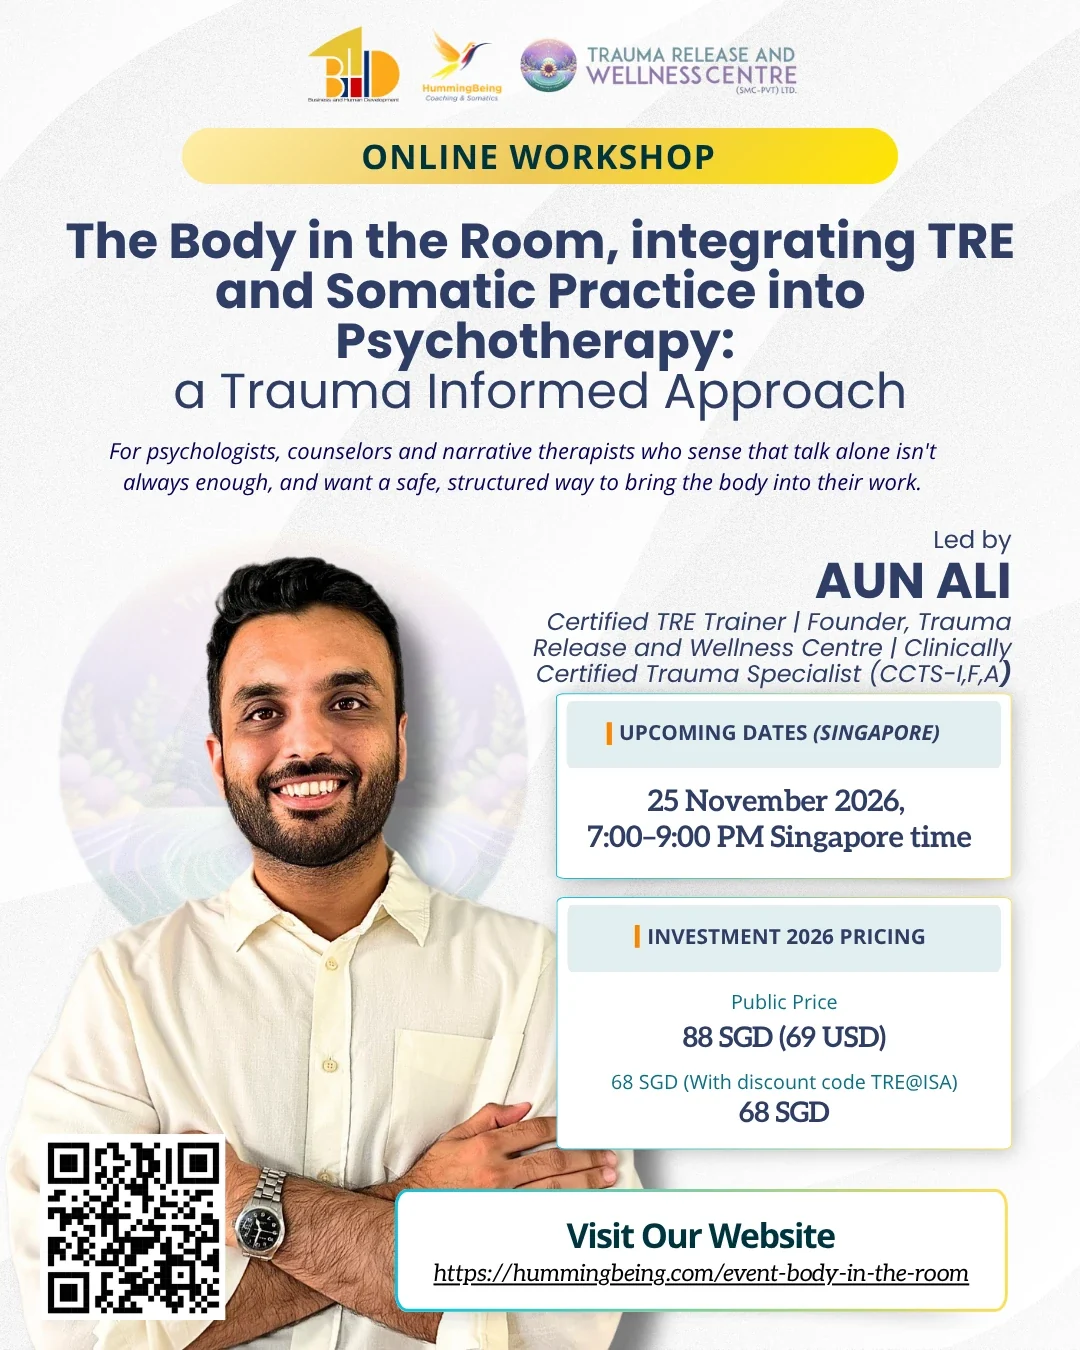
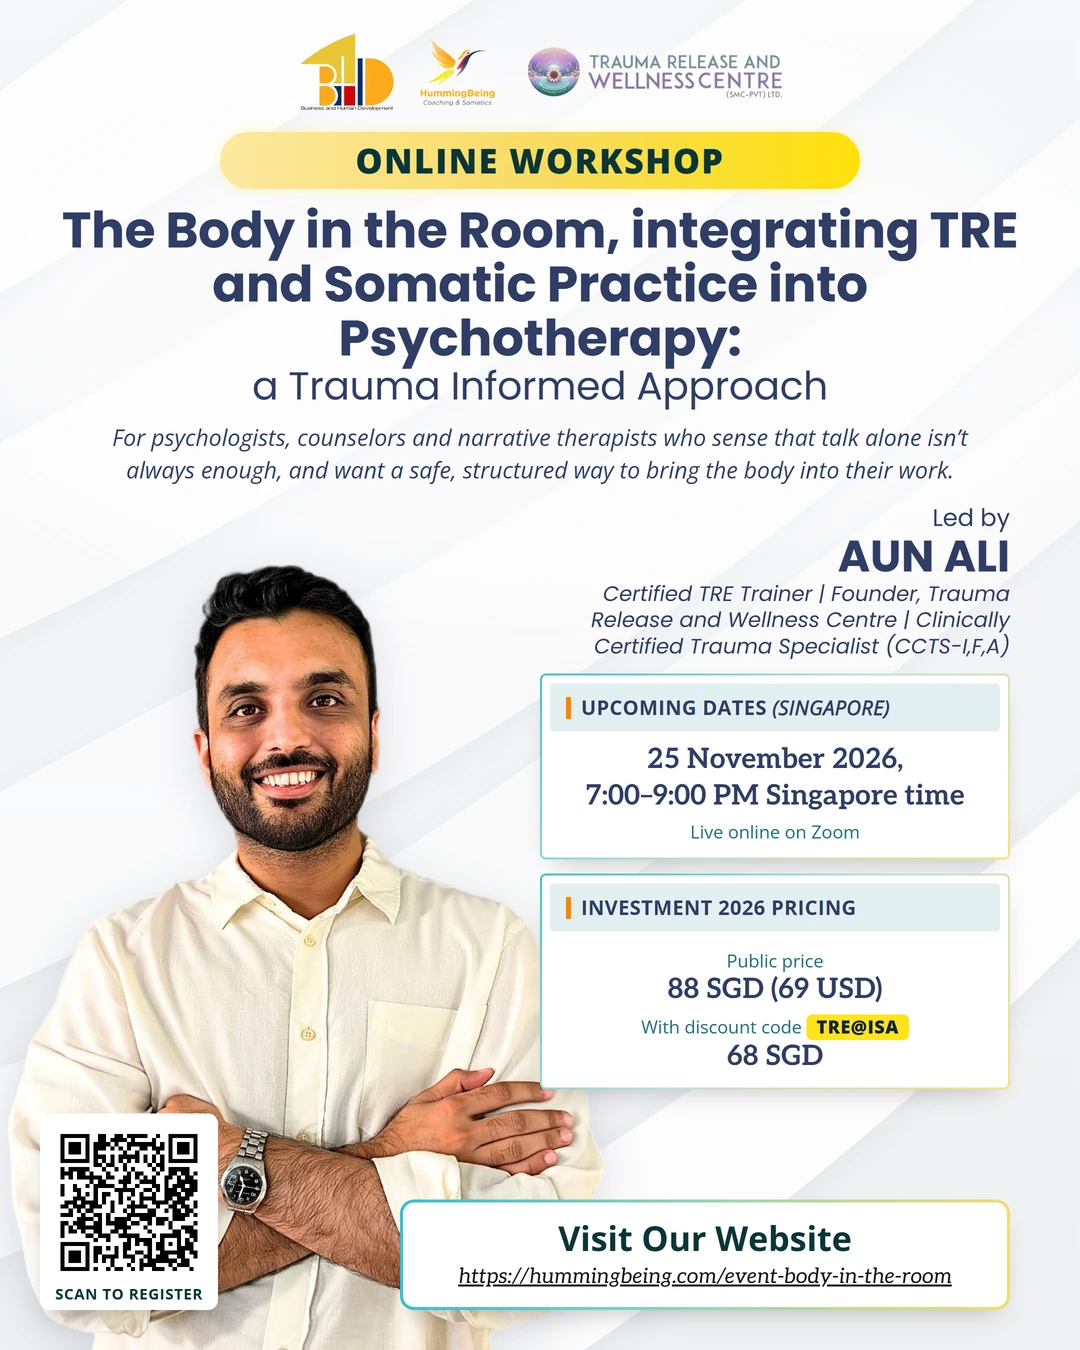
Event posters: the new 4:5 posters from hummingbeing.com (2027 certification, The Body in the Room, Feminine & Masculine Energetics) + Breath as a medicine poster section

Changed region(s): [[0.0, 0.0, 0.9472, 1.0], [0.0917, 0.5289, 0.1222, 0.56]]

diff --git a/event-certification-2027.html b/event-certification-2027.html
@@ -222,7 +222,7 @@ height="0" width="0" style="display:none;visibility:hidden"></iframe></noscript>
       <span class="evt-section-label">Event Poster</span>
       <h2>Save &amp; Share the Poster</h2>
       <figure style="margin:0;max-width:440px">
-        <a href="event-cert-2027-portrait.webp" target="_blank" rel="noopener" aria-label="Open the full-size event poster" style="display:block;border-radius:16px;overflow:hidden;box-shadow:0 18px 50px -24px rgba(17,24,39,.45)"><img src="event-cert-2027-portrait.webp" alt="Become a Certified TRE™ Provider — 2027 Singapore cohort with Isabelle Claus Teixeira and Simba Stenqvist: Module 1 27–28 Feb, Module 2 3–4 Jul, Module 3 30–31 Oct 2027" width="1080" height="1350" loading="lazy" decoding="async" style="display:block;width:100%;height:auto"/></a>
+        <a href="event-cert-2027-portrait.webp?v=2" target="_blank" rel="noopener" aria-label="Open the full-size event poster" style="display:block;border-radius:16px;overflow:hidden;box-shadow:0 18px 50px -24px rgba(17,24,39,.45)"><img src="event-cert-2027-portrait.webp?v=2" alt="Become a Certified TRE™ Provider — 2027 Singapore cohort with Isabelle Claus Teixeira and Simba Stenqvist: Module 1 27–28 Feb, Module 2 3–4 Jul, Module 3 30–31 Oct 2027" width="1080" height="1350" loading="lazy" decoding="async" style="display:block;width:100%;height:auto"/></a>
         <figcaption style="font-size:13px;color:var(--muted);margin-top:10px">Tap to open the full-size poster to save or share it.</figcaption>
       </figure>
     </div>

diff --git a/event-feminine-masculine.html b/event-feminine-masculine.html
@@ -174,7 +174,7 @@ height="0" width="0" style="display:none;visibility:hidden"></iframe></noscript>
       <span class="evt-section-label">Event Poster</span>
       <h2>Save &amp; Share the Poster</h2>
       <figure style="margin:0;max-width:440px">
-        <a href="event-feminine-masculine-portrait.webp" target="_blank" rel="noopener" aria-label="Open the full-size event poster" style="display:block;border-radius:16px;overflow:hidden;box-shadow:0 18px 50px -24px rgba(17,24,39,.45)"><img src="event-feminine-masculine-portrait.webp" alt="Navigating Feminine &amp; Masculine Energetics Inside Corporate Structures — online workshop with Sara Marie, 28 October 2026, 7–9:30pm Singapore time" width="1080" height="1350" loading="lazy" decoding="async" style="display:block;width:100%;height:auto"/></a>
+        <a href="event-feminine-masculine-portrait.webp?v=2" target="_blank" rel="noopener" aria-label="Open the full-size event poster" style="display:block;border-radius:16px;overflow:hidden;box-shadow:0 18px 50px -24px rgba(17,24,39,.45)"><img src="event-feminine-masculine-portrait.webp?v=2" alt="Navigating Feminine &amp; Masculine Energetics Inside Corporate Structures — online workshop with Sara Marie, 28 October 2026, 7–9:30pm Singapore time" width="1080" height="1350" loading="lazy" decoding="async" style="display:block;width:100%;height:auto"/></a>
         <figcaption style="font-size:13px;color:var(--muted);margin-top:10px">Tap to open the full-size poster to save or share it.</figcaption>
       </figure>
     </div>

diff --git a/event-body-in-the-room.html b/event-body-in-the-room.html
@@ -186,7 +186,7 @@ height="0" width="0" style="display:none;visibility:hidden"></iframe></noscript>
       <span class="evt-section-label">Event Poster</span>
       <h2>Save &amp; Share the Poster</h2>
       <figure style="margin:0;max-width:440px">
-        <a href="event-body-in-the-room-portrait.webp" target="_blank" rel="noopener" aria-label="Open the full-size event poster" style="display:block;border-radius:16px;overflow:hidden;box-shadow:0 18px 50px -24px rgba(17,24,39,.45)"><img src="event-body-in-the-room-portrait.webp" alt="The Body in the Room — online workshop with Aun Ali, 25 November 2026, 7–9pm Singapore time" width="1080" height="1350" loading="lazy" decoding="async" style="display:block;width:100%;height:auto"/></a>
+        <a href="event-body-in-the-room-portrait.webp?v=2" target="_blank" rel="noopener" aria-label="Open the full-size event poster" style="display:block;border-radius:16px;overflow:hidden;box-shadow:0 18px 50px -24px rgba(17,24,39,.45)"><img src="event-body-in-the-room-portrait.webp?v=2" alt="The Body in the Room — online workshop with Aun Ali, 25 November 2026, 7–9pm Singapore time" width="1080" height="1350" loading="lazy" decoding="async" style="display:block;width:100%;height:auto"/></a>
         <figcaption style="font-size:13px;color:var(--muted);margin-top:10px">Tap to open the full-size poster to save or share it.</figcaption>
       </figure>
     </div>

diff --git a/event-breath-as-medicine.html b/event-breath-as-medicine.html
@@ -185,6 +185,15 @@ height="0" width="0" style="display:none;visibility:hidden"></iframe></noscript>
     </div>
 
     <div class="evt-section">
+      <span class="evt-section-label">Event Poster</span>
+      <h2>Save &amp; Share the Poster</h2>
+      <figure style="margin:0;max-width:440px">
+        <a href="event-breath-as-medicine-portrait.webp?v=2" target="_blank" rel="noopener" aria-label="Open the full-size event poster" style="display:block;border-radius:16px;overflow:hidden;box-shadow:0 18px 50px -24px rgba(17,24,39,.45)"><img src="event-breath-as-medicine-portrait.webp?v=2" alt="Breath as a medicine &#8212; online pranayama workshop with Ania Zieli&#324;ska, 15 December 2026, 7&#8211;9pm Singapore time" width="1080" height="1350" loading="lazy" decoding="async" style="display:block;width:100%;height:auto"></a>
+        <figcaption style="font-size:13px;color:var(--muted);margin-top:10px">Tap to open the full-size poster to save or share it.</figcaption>
+      </figure>
+    </div>
+
+    <div class="evt-section">
       <span class="evt-section-label">Your Facilitator</span>
       <h2>Led by Ania Zieli&#324;ska</h2>
       <div class="facilitator-card">
